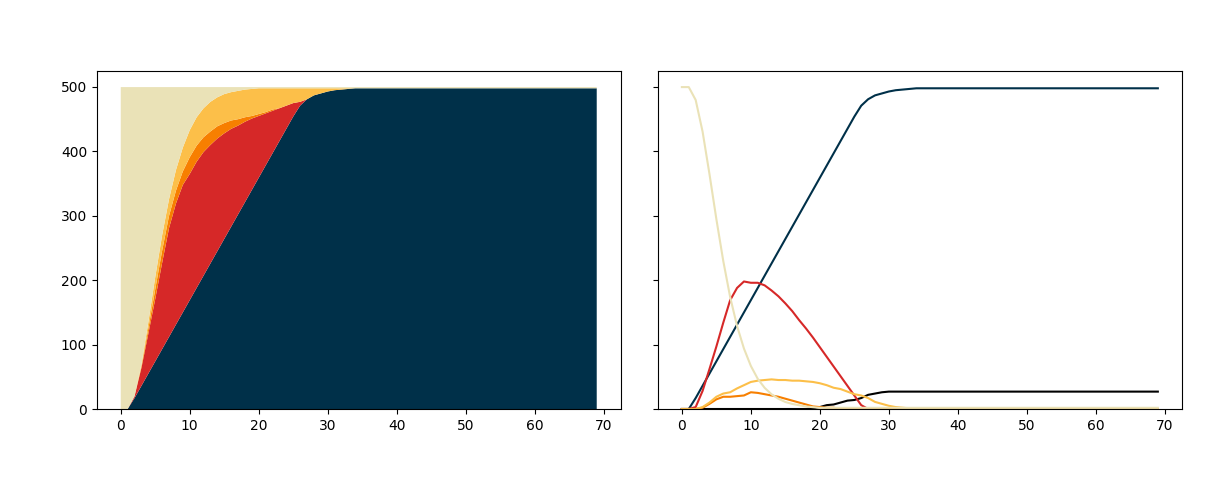
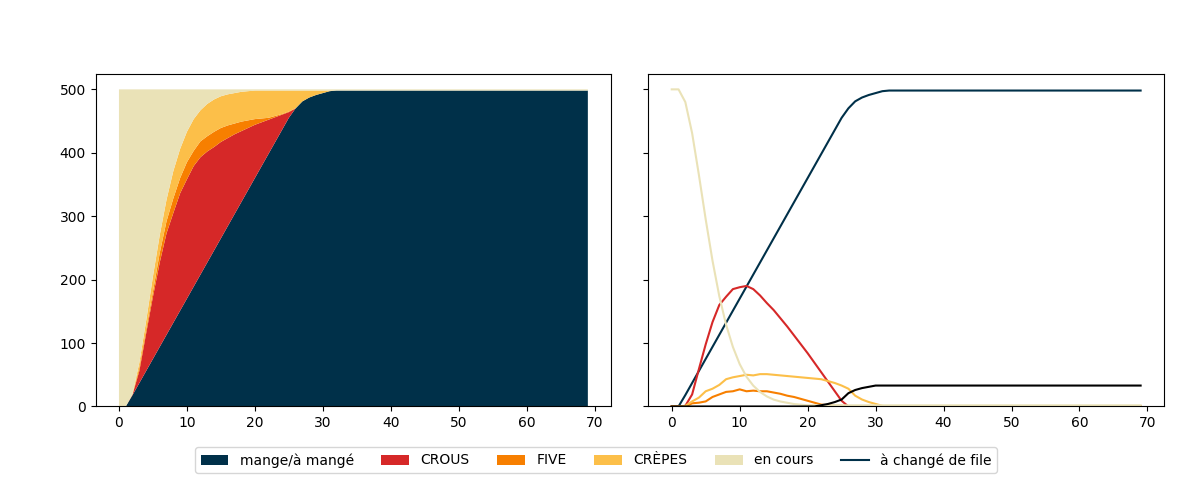
1 lengend for both graphs

diff --git a/main.py b/main.py
@@ -183,13 +183,14 @@ colormap = ["#003049", "#d62828", "#f77f00", "#fcbf49", "#eae2b7"]
 fig, axs = plt.subplots(1, 2, sharey=True)
 axs[0].stackplot(X_arr, [M_served, M_queues[0], M_queues[1], M_queues[2], clientsTot-(M_queues[0]+M_queues[1]+M_queues[2]+M_served)], colors=colormap)
 #axs[0].plot(X_arr, clientsTot-M_flux_P, color="white")
-axs[1].plot(X_arr, np.cumsum(M_swaps), color="black")
 axs[1].plot(X_arr, M_served, color=colormap[0])
 axs[1].plot(X_arr, M_queues[0], color=colormap[1])
 axs[1].plot(X_arr, M_queues[1], color=colormap[2])
 axs[1].plot(X_arr, M_queues[2], color=colormap[3])
 axs[1].plot(X_arr, clientsTot-(M_queues[0]+M_queues[1]+M_queues[2]+M_served), color=colormap[4])
-#axs[0].legend(['mange/à mangé', 'CROUS', 'FIVE', 'CRÈPES', 'en cours'], loc="lower right")
+axs[1].plot(X_arr, np.cumsum(M_swaps), color="black")
+fig.legend(['mange/à mangé', 'CROUS', 'FIVE', 'CRÈPES', 'en cours', 'à changé de file'], loc="lower center", ncol=6)
+
 axs[0].set_aspect(timeSpan/clientsTot/1.5)
 axs[1].set_aspect(timeSpan/clientsTot/1.5)
 fig.tight_layout()
